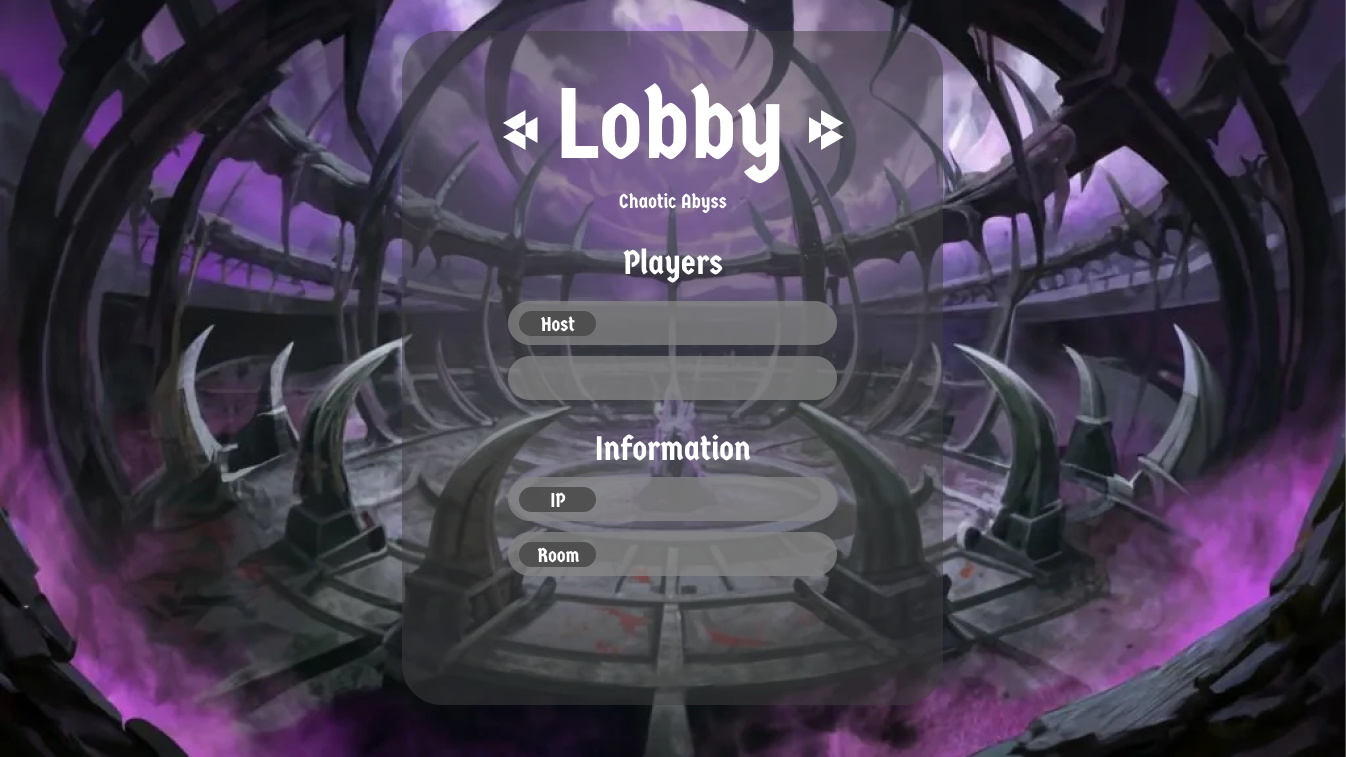
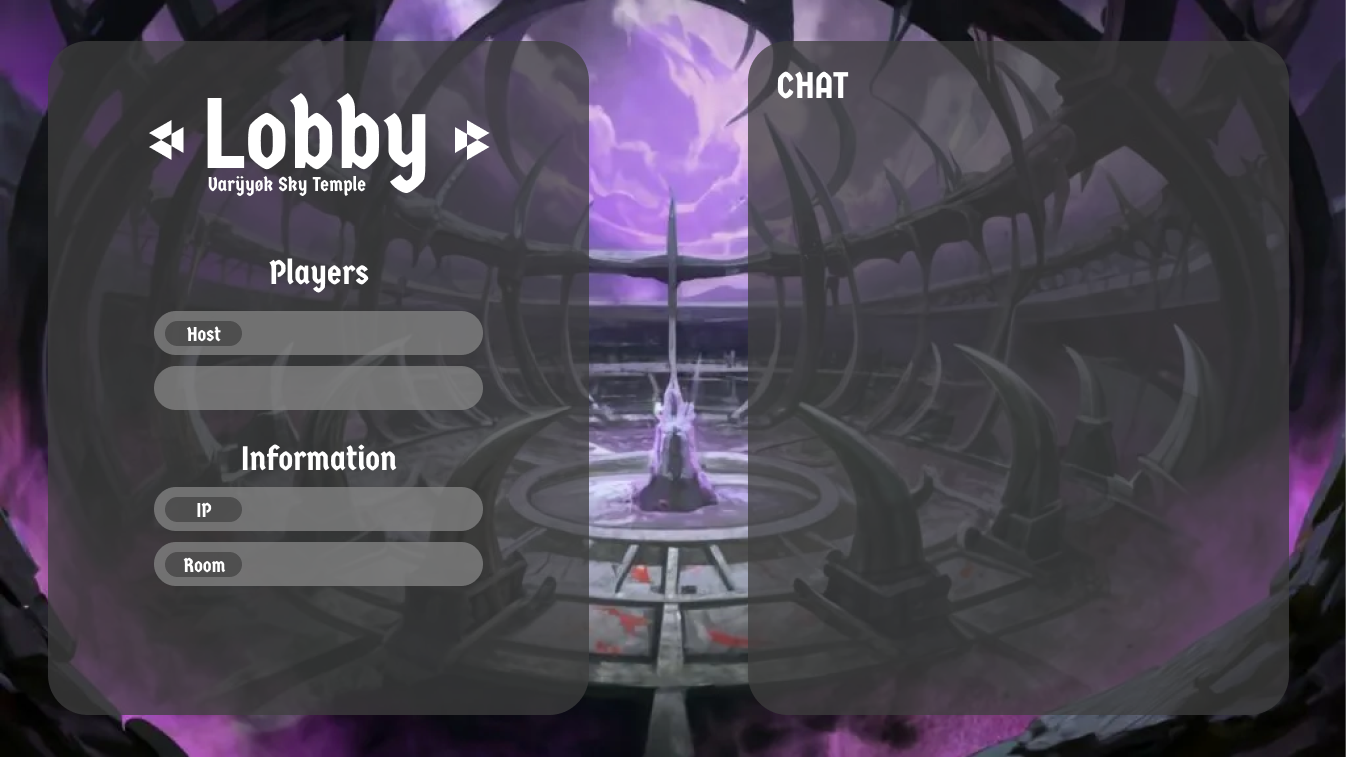
new lobbys, still need to connect to a actual chat

diff --git a/ChaosCardGame/UserInterface/MenuStates/lobby_menu_ui.py b/ChaosCardGame/UserInterface/MenuStates/lobby_menu_ui.py
@@ -2,12 +2,12 @@ import os
 import pygame
 from Network.server import HandlerHandler as handle
 import random
-from Assets.menu_assets import MenuBackgrounds, MenuButtons, Fonts, alpha_converter
+from Assets.menu_assets import MenuBackgrounds, MenuButtons, TextBoxes, Fonts, alpha_converter
 from UserInterface.MenuStates.game_menu_ui import GameMenu
 from UserInterface.OcgVision.vision_io import KeyRel
-from UserInterface.OcgVision.vision_main import ImageButton, State, TextBox
+from UserInterface.OcgVision.vision_main import ImageButton, State, TextBox, SelectTextBox
 from UserInterface.ui_settings import SCREEN_CENTER
-from utility import cwd_path, get_setting
+from utility import cwd_path, get_setting, search_event
 
 
 class LobbyMenu(State):
@@ -17,6 +17,22 @@ class LobbyMenu(State):
         self.local_options = ["LobbyMenu", "GameMenu"]
         super().__init__(screen, self.is_anchor, self.local_options)
 
+        self.tb_image = TextBoxes.textbox_2_image.convert_alpha()
+        self.chat_tb_rect = self.tb_image.get_rect(topleft=(777, 629))
+
+        self.tb_chat = SelectTextBox(
+            self.screen,
+            position=(802, 643),
+            width=351,
+            height=35,
+            font=Fonts.ger_font(30),
+            default_color=(97, 97, 97),
+            color=(255, 255, 255),
+            position_type="topleft",
+            text_center="left",
+            default_text="Write Here"
+        )
+
         self.current_arena: int = handle.get_state()["arena"]
         self.bg_lobby_image = MenuBackgrounds.bg_lobby_images[
             min(self.current_arena, 4)
@@ -24,32 +40,38 @@ class LobbyMenu(State):
         self.bg_lobby_rect = self.bg_lobby_image.get_rect()
 
         self.host_ready_image = MenuBackgrounds.bg_assets["ready"]["img"]
-        self.host_ready_rect = self.host_ready_image.get_rect(topleft=(749,311))
+        self.host_ready_rect = self.host_ready_image.get_rect(
+            topleft=(393, 321))
         self.host_unready_image = MenuBackgrounds.bg_assets["unready"]["img"]
-        self.host_unready_rect = self.host_unready_image.get_rect(topleft=(749,311))
+        self.host_unready_rect = self.host_unready_image.get_rect(
+            topleft=(393, 321))
 
         self.user_ready_image = MenuBackgrounds.bg_assets["ready"]["img"]
-        self.user_ready_rect = self.user_ready_image.get_rect(topleft=(749,365))
+        self.user_ready_rect = self.user_ready_image.get_rect(
+            topleft=(395, 375))
         self.user_unready_image = MenuBackgrounds.bg_assets["unready"]["img"]
-        self.user_unready_rect = self.user_unready_image.get_rect(topleft=(749,365))
+        self.user_unready_rect = self.user_unready_image.get_rect(
+            topleft=(395, 375))
 
-        self.hostusername_text = TextBox(self.screen, (611, 301), 123, 41, Fonts.ger_font(
+        self.hostusername_text = TextBox(self.screen, (257, 311), 123, 41, Fonts.ger_font(
             40), (255, 255, 255), position_type="topleft", text_center="center", text="")
-        self.username_text = TextBox(self.screen, (611, 356), 123, 41, Fonts.ger_font(
+        self.username_text = TextBox(self.screen, (257, 366), 123, 41, Fonts.ger_font(
             40), (255, 255, 255), position_type="topleft", text_center="center", text="")
-        self.ipaddress_text = TextBox(self.screen, (611, 483), 195, 30, Fonts.ger_font(
+        self.ipaddress_text = TextBox(self.screen, (257, 493), 195, 30, Fonts.ger_font(
             30), (255, 255, 255), position_type="topleft", text_center="center", text="")
-        self.roomname_text = TextBox(self.screen, (611, 538), 204, 30, Fonts.ger_font(
+        self.roomname_text = TextBox(self.screen, (257, 548), 204, 30, Fonts.ger_font(
             30), (255, 255, 255), position_type="topleft", text_center="center", text="")
 
         self.ready_button = ImageButton(self.screen, True, image=alpha_converter(
-            MenuButtons.button_assets["Ready"]["img"]), position_type="topleft", position=(508, 606))
+            MenuButtons.button_assets["Ready"]["img"]), position_type="topleft", position=(154, 616))
 
+        self.send_button = ImageButton(self.screen, True, image=alpha_converter(
+            MenuButtons.button_assets["Send"]["img"]), position_type="topleft", position=(1191, 629))
 
     def lobby_menu(self):
         self.roomname_text_content = get_setting("roomname", "Room")
         self.local_is_hosting = get_setting("is_hosting", False)
-        
+
         # handle.state is faster than handle.get_state()
         if self.current_arena != handle.state["arena"].value:
             self.current_arena = handle.state["arena"].value
@@ -57,14 +79,15 @@ class LobbyMenu(State):
                 min(self.current_arena, 4)
             ].convert_alpha()
             self.bg_lobby_rect = self.bg_lobby_image.get_rect()
-        
+
         self.screen.blit(self.bg_lobby_image, self.bg_lobby_rect)
 
         if self.local_is_hosting == True:
             self.hostusername_text_content = get_setting("username", "User")
             self.username_text_content = handle.get_state()["remote"]["name"]
         else:
-            self.hostusername_text_content = handle.get_state()["remote"]["name"]
+            self.hostusername_text_content = handle.get_state()[
+                "remote"]["name"]
             self.username_text_content = get_setting("username", "User")
 
         if self.local_is_hosting:
@@ -78,31 +101,44 @@ class LobbyMenu(State):
         self.roomname_text.render(self.roomname_text_content)
 
         self.ready_button.render()
+        self.send_button.render()
 
         if self.ready_button.answer() and not handle.ready:
             handle.run_action("ready")
+        if self.send_button.answer():
+            print("Message: " + self.tb_chat.text)
+            self.tb_chat.text = ""
 
         if self.local_is_hosting == True:
             if handle.ready == True:
                 self.screen.blit(self.host_ready_image, self.host_ready_rect)
             elif handle.ready == False:
-                self.screen.blit(self.host_unready_image, self.host_unready_rect)
+                self.screen.blit(self.host_unready_image,
+                                 self.host_unready_rect)
             if handle.remote_ready == True:
                 self.screen.blit(self.user_ready_image, self.user_ready_rect)
             elif handle.remote_ready == False:
-                self.screen.blit(self.user_unready_image, self.user_unready_rect)
+                self.screen.blit(self.user_unready_image,
+                                 self.user_unready_rect)
         elif self.local_is_hosting == False:
             if handle.remote_ready == True:
                 self.screen.blit(self.host_ready_image, self.host_ready_rect)
             elif handle.remote_ready == False:
-                self.screen.blit(self.host_unready_image, self.host_unready_rect)
+                self.screen.blit(self.host_unready_image,
+                                 self.host_unready_rect)
             if handle.ready == True:
                 self.screen.blit(self.user_ready_image, self.user_ready_rect)
             elif handle.ready == False:
-                self.screen.blit(self.user_unready_image, self.user_unready_rect)
-            
+                self.screen.blit(self.user_unready_image,
+                                 self.user_unready_rect)
+
+        self.screen.blit(self.tb_image, self.chat_tb_rect)
+
+        keys = search_event(super().events, pygame.KEYDOWN)
+        self.room_text = self.tb_chat.render(keys)
+
         if handle.ready == True and handle.remote_ready == True:
-                self.change_state("GameMenu")
+            self.change_state("GameMenu")
 
     def state_manager_hook(self, app):
         if len(State.state_tree) >= 5:

diff --git a/ChaosCardGame/Assets/menu_assets.py b/ChaosCardGame/Assets/menu_assets.py
@@ -93,7 +93,8 @@ def handle_assets(path: str, per_file=False, prefixes: list = []):
                     asset_queue.append(os.path.join(dirpath, file))
             else:
                 asset_queue.append(dirpath)
-    asset_queue = [asset for asset in asset_queue if os.path.basename(asset)[0] != "."]
+    asset_queue = [asset for asset in asset_queue if os.path.basename(asset)[
+        0] != "."]
     return dict_packager(asset_queue, prefixes)
 
 
@@ -167,7 +168,10 @@ class TextBoxes:
     textbox_dir = os.path.join(graphics_path, "TextBoxes", "")
     # TextBox 1
     textbox_1_path = textbox_dir + "textbox_1.png"
+    textbox_2_path = textbox_dir + "textbox_2.png"
     textbox_1_image = pygame.image.load(textbox_1_path)
+    textbox_2_image = pygame.image.load(textbox_2_path)
+
     logging.info("Successfully loaded textboxes")
 
 
@@ -216,4 +220,5 @@ class Sprites:
     states_assets = handle_assets(
         os.path.join(graphics_path, "Sprites", "States"), True
     )
-    box_assets = handle_assets(os.path.join(graphics_path, "Sprites", "Boxes"), True)
+    box_assets = handle_assets(os.path.join(
+        graphics_path, "Sprites", "Boxes"), True)
